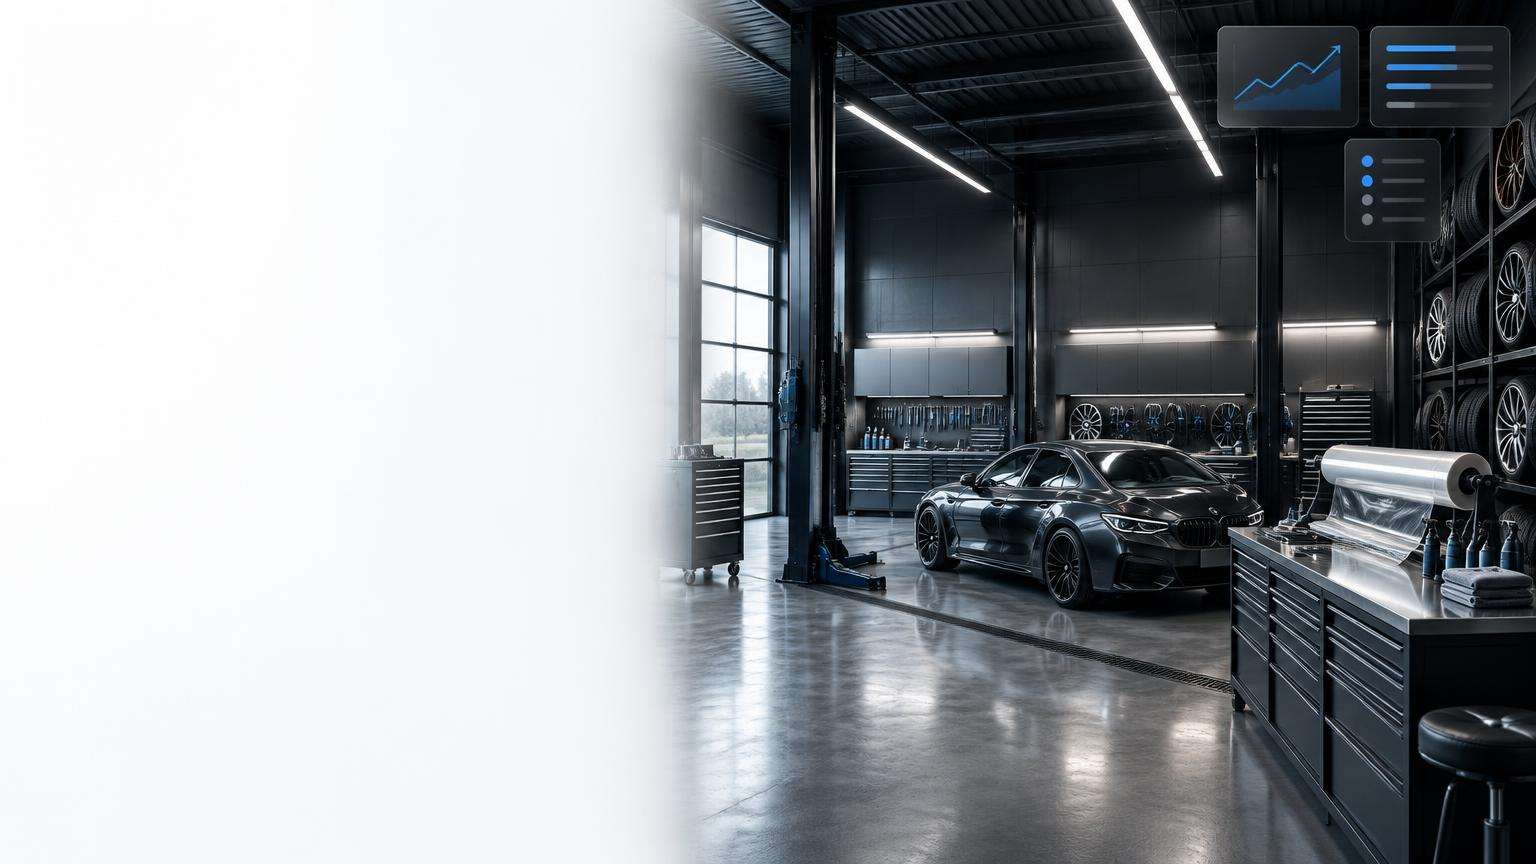
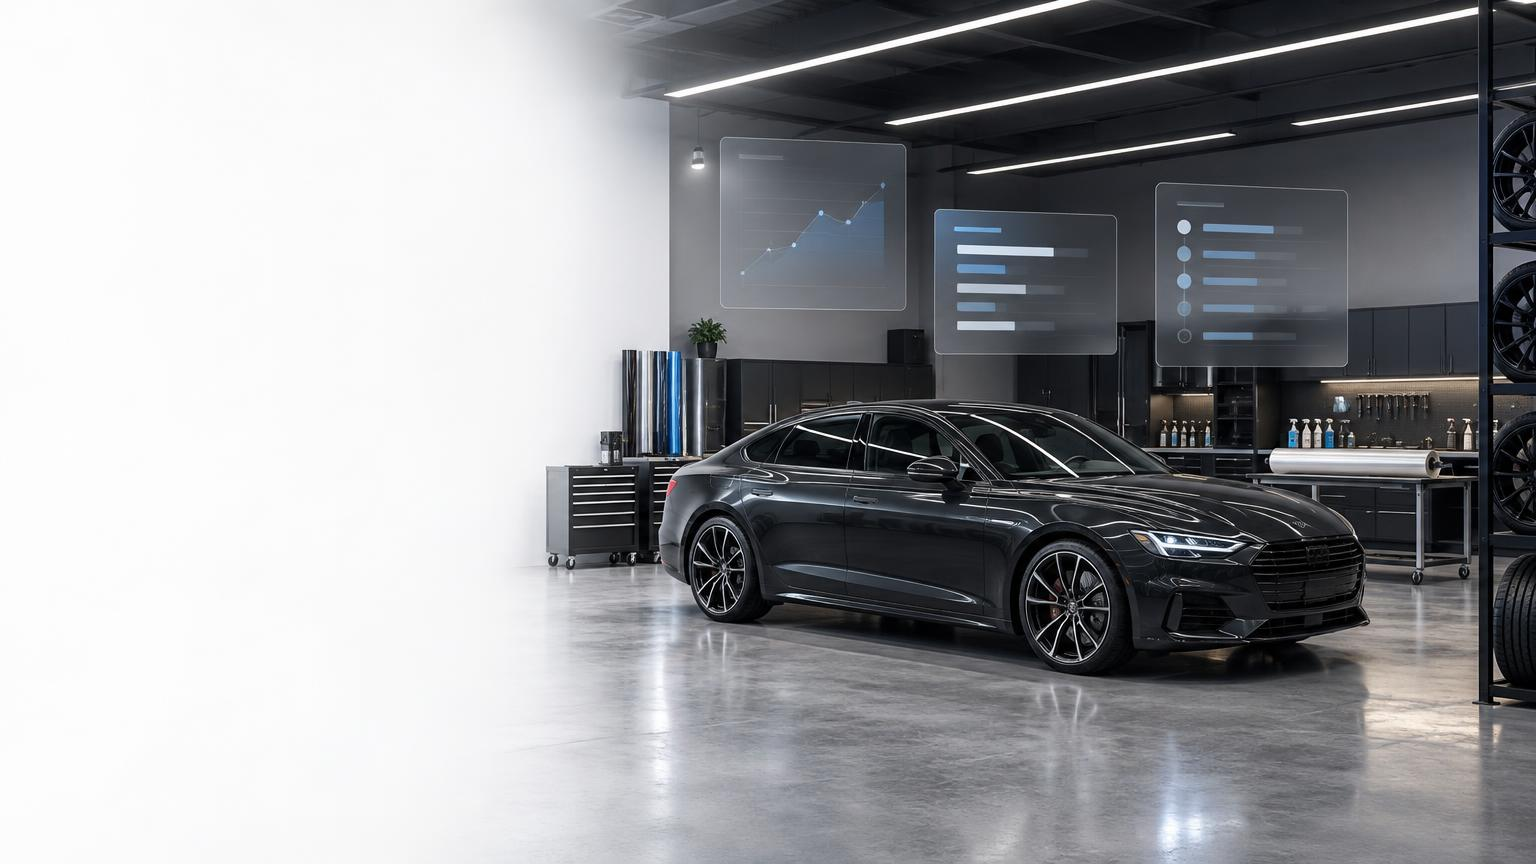
Changes

diff --git a/src/routes/index.tsx b/src/routes/index.tsx
@@ -174,7 +174,7 @@ function LandingPage() {
               alt=""
               className="absolute inset-0 h-full w-full object-cover object-center"
             />
-            <div className="absolute inset-0 bg-gradient-to-r from-card from-[18%] via-card/45 via-[30%] to-card/0 to-[40%]" />
+            <div className="absolute inset-0 bg-gradient-to-r from-card from-[25%] via-card/50 via-[34%] to-card/0 to-[45%]" />
             <div className="absolute inset-x-0 bottom-0 h-16 bg-gradient-to-b from-transparent to-card/60" />
           </div>
           <div className="relative mx-auto grid max-w-7xl gap-10 px-4 pb-12 pt-16 md:pb-16 md:pt-24 lg:min-h-[38rem] lg:grid-cols-[1.02fr_0.98fr] lg:items-center lg:gap-8 lg:px-6">
